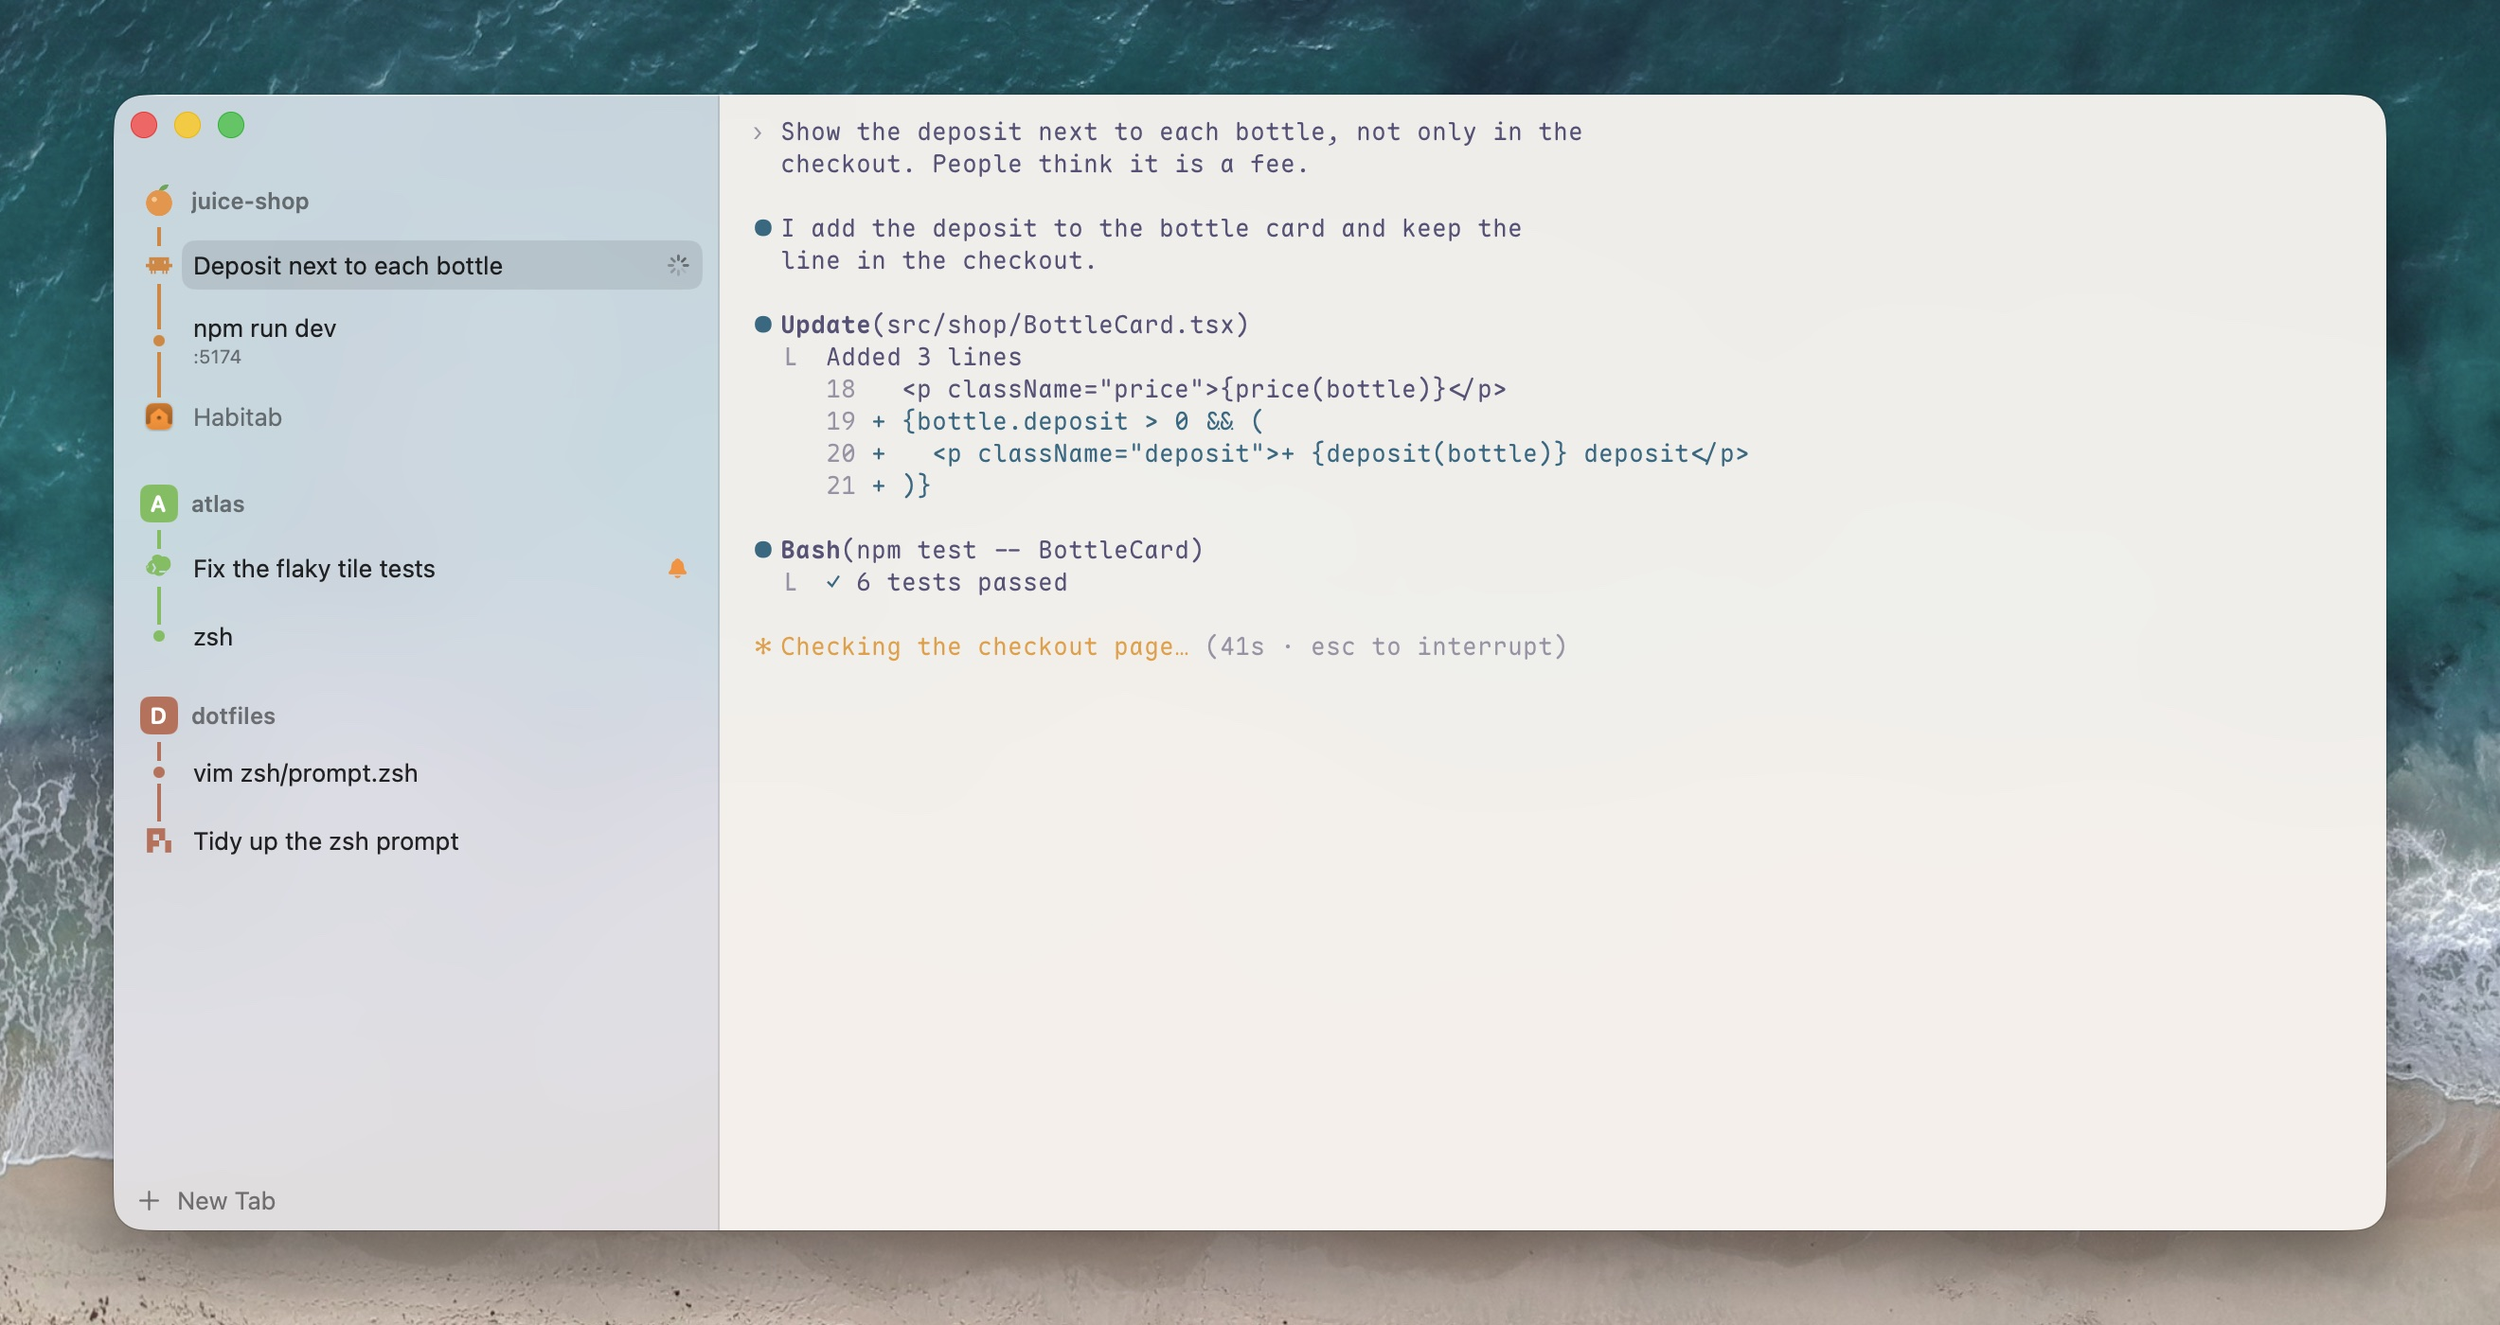
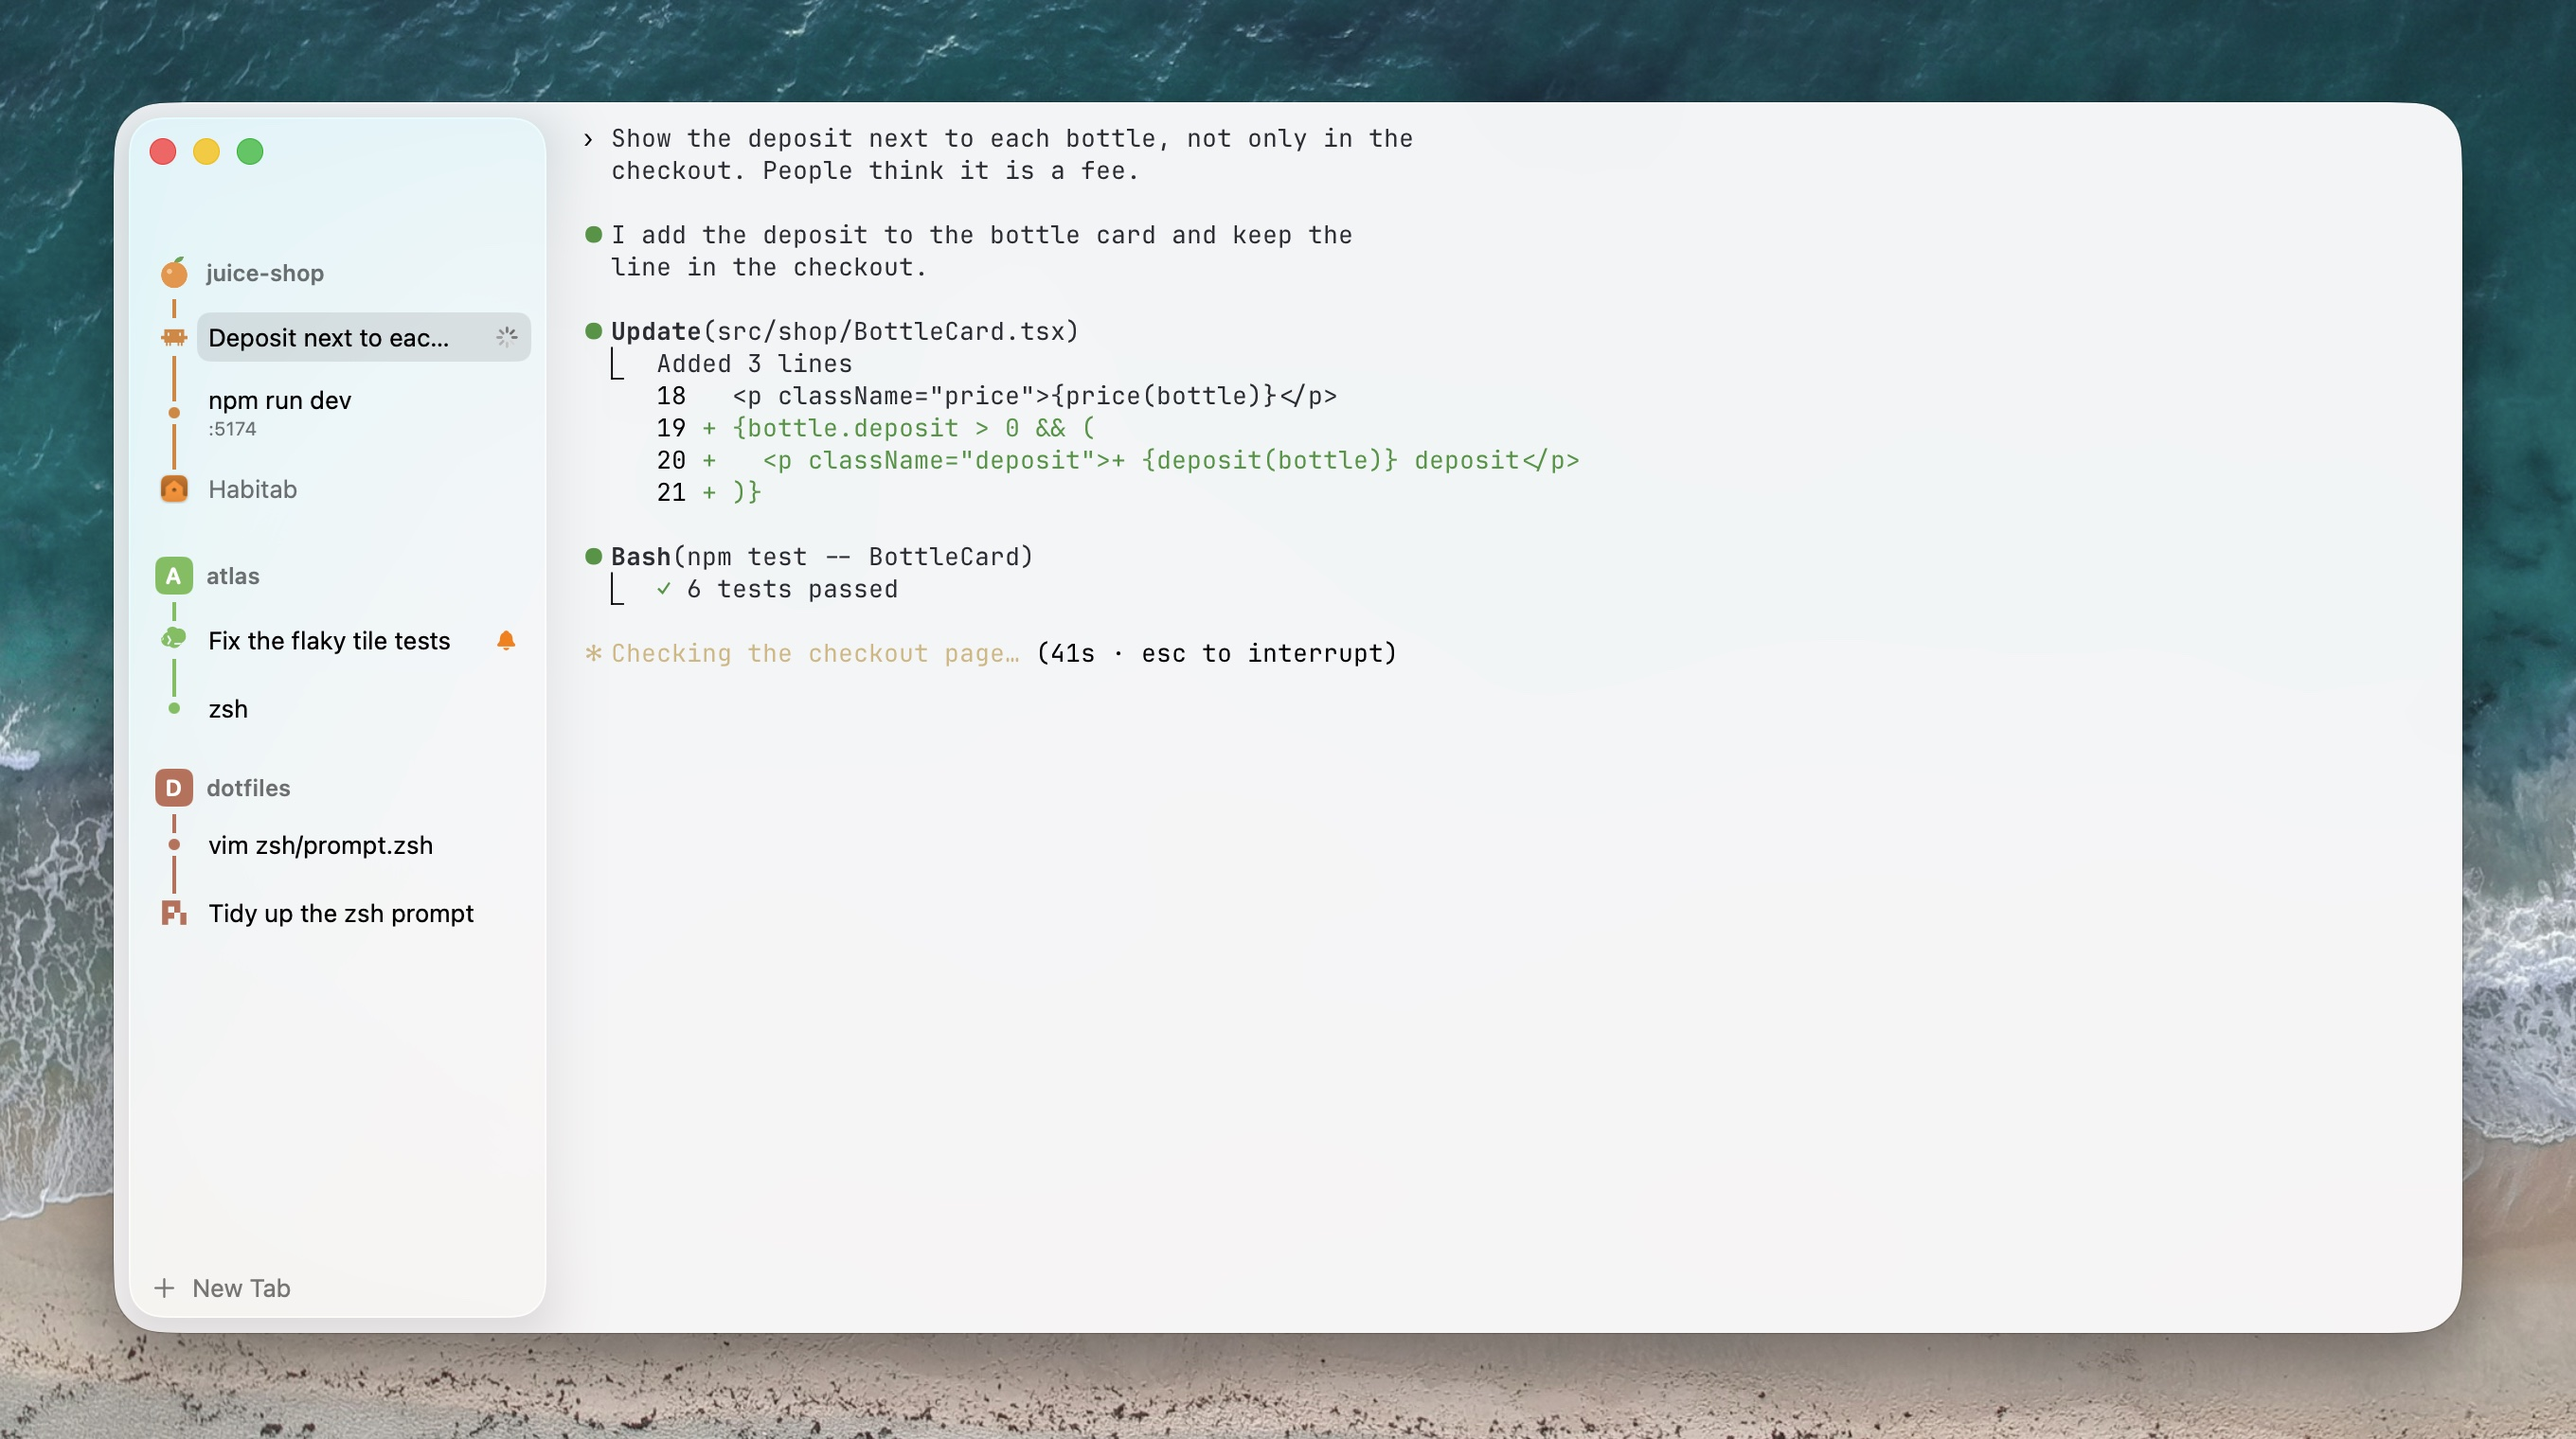
docs: Compact Mode section, light theme with glass sidebar, joined quote bars in the copy example

diff --git a/docs/index.html b/docs/index.html
@@ -116,8 +116,8 @@
       </ul>
     </div>
     <figure class="sec-demo">
-      <img class="shot" src="assets/img/shot-looks.jpg" width="2640" height="1400" loading="lazy" decoding="async" alt="The same Shellter window in the light theme Rose Pine Dawn with the font Maple Mono; the sidebar is light too.">
-      <figcaption class="note">The same window in Rose Pine Dawn and Maple Mono.</figcaption>
+      <img class="shot" src="assets/img/shot-looks.jpg" width="2720" height="1520" loading="lazy" decoding="async" alt="The same Shellter window in the light theme Atom One Light, with the floating glass sidebar of macOS 26.">
+      <figcaption class="note">The same window in Atom One Light, with the floating glass sidebar.</figcaption>
     </figure>
   </section>
 
@@ -157,6 +157,24 @@ Hi Sam, the new server is ready. Could you check two reports on Friday before we
 2. Compare them after the switch.</pre>
       </div>
     </div>
+  </section>
+
+  <!-- COMPACT MODE -->
+  <section class="sec sec-flip" id="compact" aria-labelledby="h-compact">
+    <div class="sec-copy">
+      <p class="kicker">Compact Mode</p>
+      <h2 id="h-compact">Talk to your agent. Keep the screen free.</h2>
+      <p>You want to tell your agent what is wrong with a page, but the terminal covers the page. Press <kbd>⇧⌘K</kbd>, and the tab becomes a small panel that floats above all apps. You see only the agent's input and status line. Type or dictate while you look at the screen.</p>
+      <ul class="points">
+        <li>The terminal keeps its size, so the agent's UI does not change.</li>
+        <li>Scroll in the panel to read the last answer.</li>
+        <li>Put the panel where you want it. <kbd>⇧⌘K</kbd> brings the window back.</li>
+      </ul>
+    </div>
+    <figure class="sec-demo">
+      <img class="shot" src="assets/img/shot-compact.jpg" width="2720" height="1520" loading="lazy" decoding="async" alt="A small Shellter panel floats in front of the checkout page of a juice shop. It shows only the input of the coding agent and its status line.">
+      <figcaption class="note">The page stays visible. The panel shows the bottom rows of the terminal.</figcaption>
+    </figure>
   </section>
 
   <!-- COMPARE -->

diff --git a/docs/style.css b/docs/style.css
@@ -105,7 +105,7 @@ h2 { font: 700 clamp(32px, 3.8vw, 48px)/1.08 var(--display); letter-spacing: -0.
 .copy-card { width: 100%; max-width: 520px; border-radius: 12px; background: var(--deep); box-shadow: 0 0 0 1px var(--rule), 0 24px 50px -24px rgba(0, 0, 0, 0.7); overflow: hidden; }
 .copy-label { display: block; padding: 10px 16px; border-bottom: 1px solid var(--rule); font: 700 12px/1 var(--display); letter-spacing: 0.08em; text-transform: uppercase; color: var(--soft); }
 .copy-card pre { margin: 0; padding: 14px 16px 16px; font: 400 clamp(11px, 2.9vw, 14px)/1.6 var(--mono); color: var(--text); }
-.copy-term { overflow-x: auto; }
+.copy-term { overflow-x: auto; line-height: 1.32 !important; }
 .copy-term i { font-style: normal; color: var(--bell); }
 .copy-clip { white-space: pre-wrap; overflow-wrap: anywhere; font-family: var(--sans) !important; font-size: 15px !important; }
 .copy-step { color: var(--teal); }
